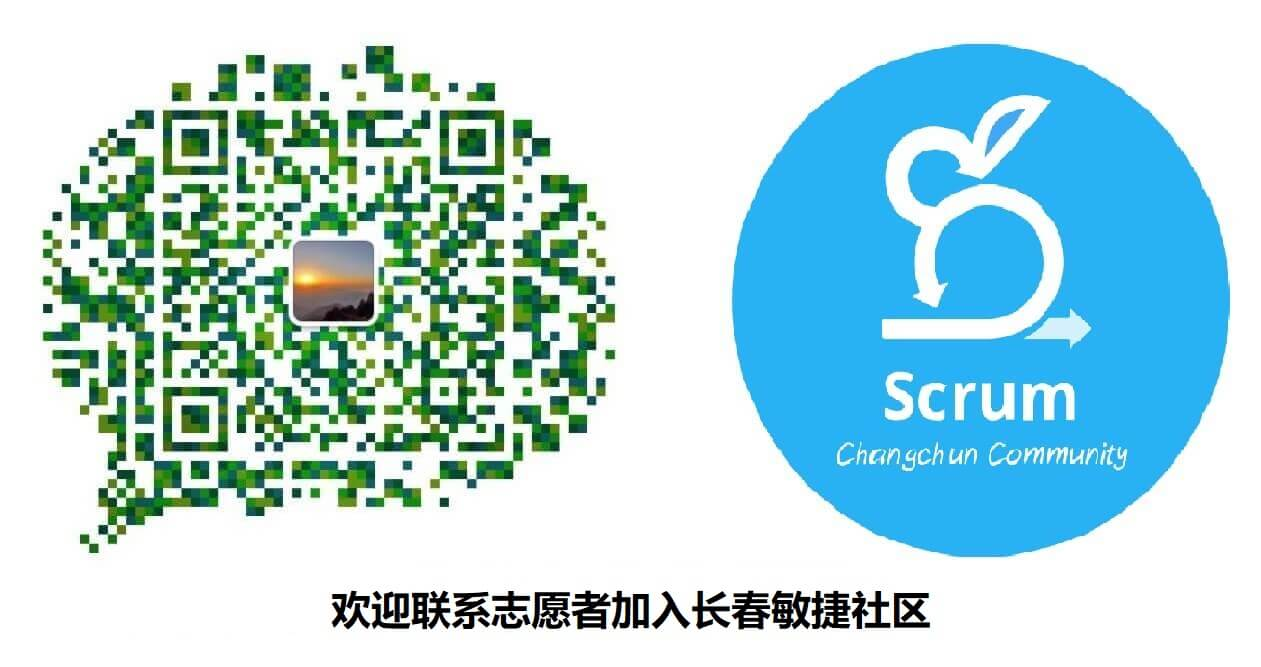
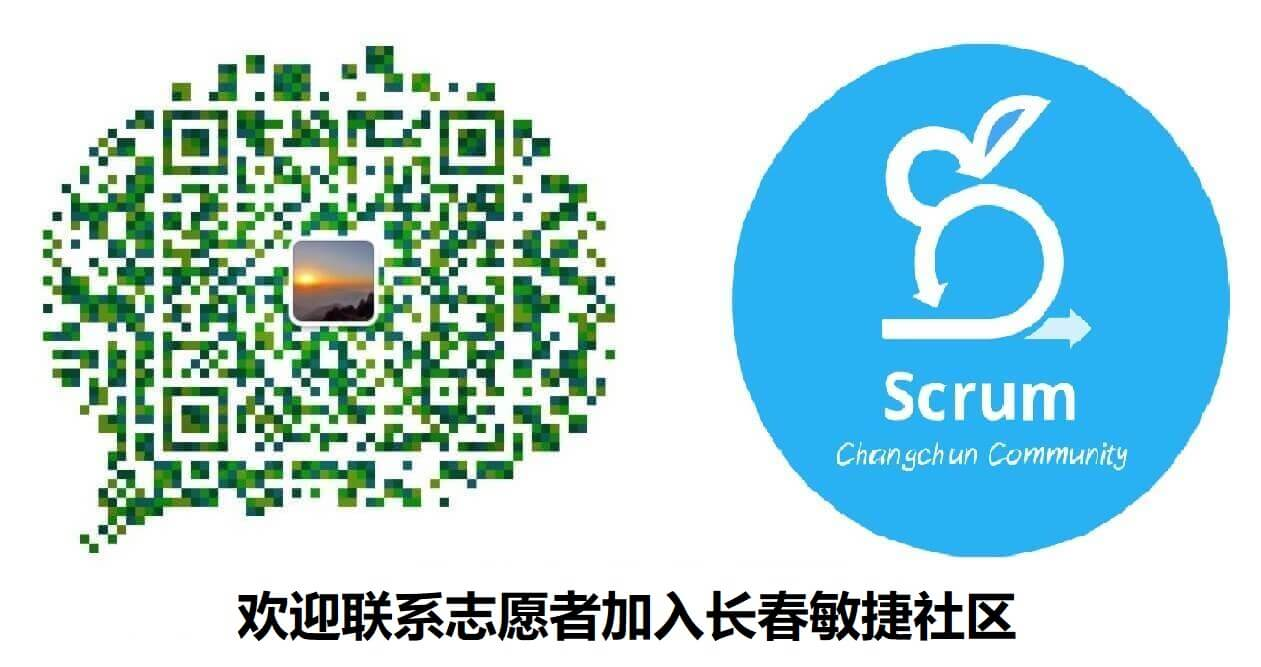
change qrcode and some error content

Changed region(s): [[0.1856, 0.8696, 0.8041, 0.9595]]

diff --git a/_includes/footer.html b/_includes/footer.html
@@ -100,7 +100,7 @@
                         src="https://ghbtns.com/github-btn.html?user={{ site.github_username }}&repo={{ site.github_username }}.github.io&type=star&count=true" >
                     </iframe>
                     <br>
-                    <img src="/img/Life/wechatQRcode1.jpg" style="width:50%;height:50%"/>
+                    <img src="/img/Life/wechatQRcode1.jpg" style="width:80%;height:80%"/>
                 </p>
                 
             </div>
